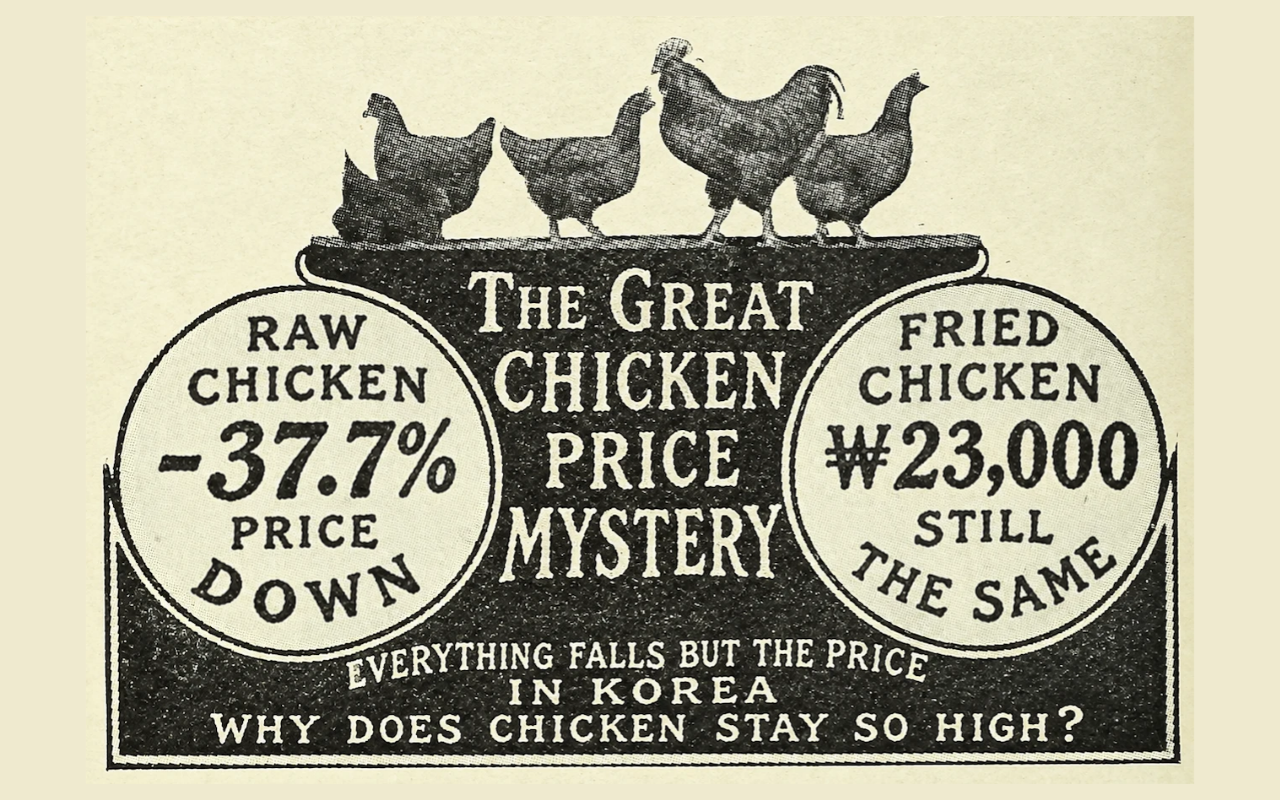
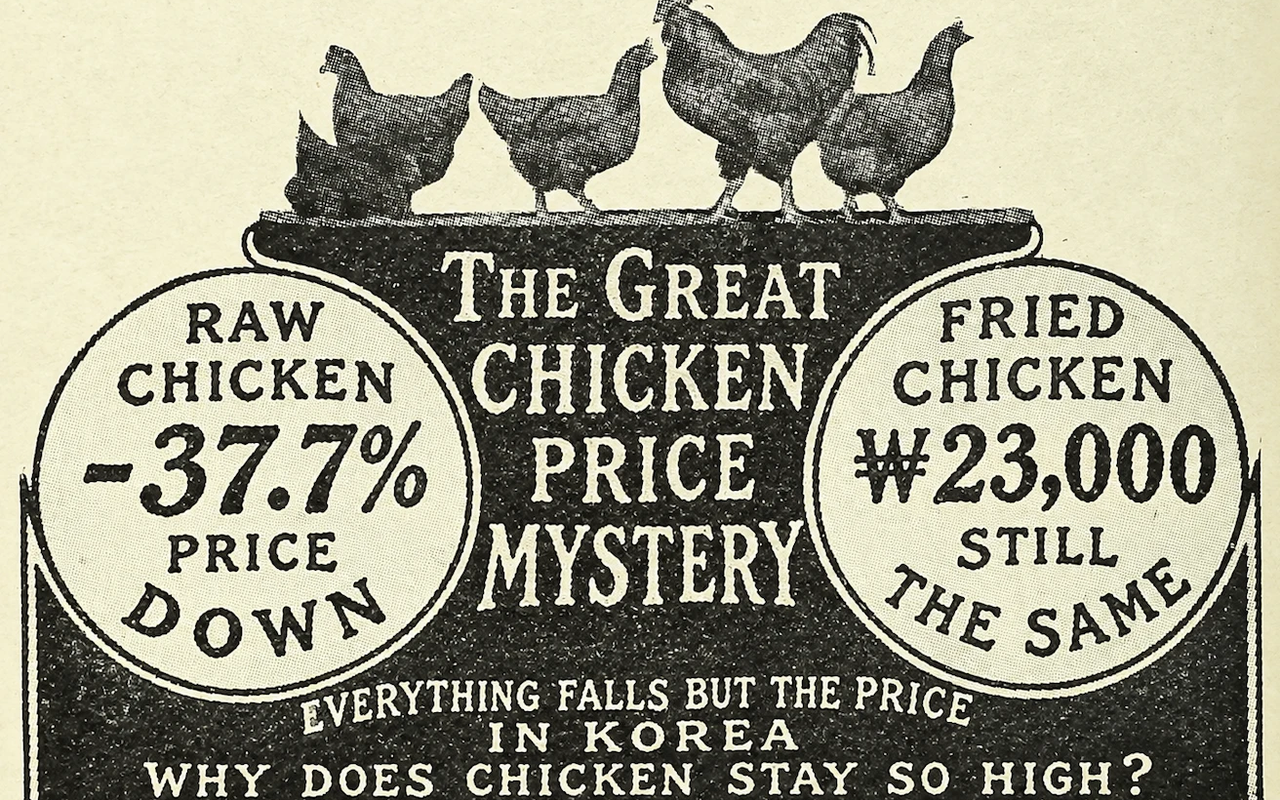
Day 11: use the cover image as thumbnail

diff --git a/index.html b/index.html
@@ -292,20 +292,8 @@
       </svg>`;
     },
     chicken() {
-      // the vintage chicken-price ad: a black panel with two white circles
-      return `<svg viewBox="0 0 150 100" role="img" aria-label="빈티지 광고: 원육값 −37.7%와 치킨 ₩23,000 두 동그라미">
-        <rect width="150" height="100" fill="#efeacf"/>
-        <path d="M20 34 Q20 28 26 28 L124 28 Q130 28 130 34 L130 90 L20 90 Z" fill="#171411"/>
-        <path d="M52 27 q2 -9 9 -8 q3 -6 7 -1 q4 -3 5 2 q5 1 3 7 Z M80 27 q1 -8 8 -7 q4 -5 7 0 q5 0 3 7 Z" fill="#171411"/>
-        <circle cx="38" cy="60" r="19" fill="#efeacf" stroke="#171411" stroke-width="1.5"/>
-        <circle cx="112" cy="60" r="19" fill="#efeacf" stroke="#171411" stroke-width="1.5"/>
-        <text x="38" y="63" text-anchor="middle" font-family="Georgia,serif" font-weight="700" font-size="8.5" fill="#171411">-37.7%</text>
-        <text x="112" y="63" text-anchor="middle" font-family="Georgia,serif" font-weight="700" font-size="7" fill="#171411">₩23,000</text>
-        <text x="75" y="48" text-anchor="middle" font-family="Georgia,serif" font-size="4.6" fill="#efeacf">THE GREAT</text>
-        <text x="75" y="58" text-anchor="middle" font-family="Georgia,serif" font-size="5.6" fill="#efeacf">CHICKEN</text>
-        <text x="75" y="68" text-anchor="middle" font-family="Georgia,serif" font-size="5.6" fill="#efeacf">PRICE</text>
-        <text x="75" y="78" text-anchor="middle" font-family="Georgia,serif" font-size="4.6" fill="#efeacf">MYSTERY</text>
-      </svg>`;
+      // the Chicken Price Mystery cover image
[1 lines of base64/hex data omitted]
     },
     paris() {
       // the cut-out Paris sheet on a starry swirl, with a few buildings standing up
